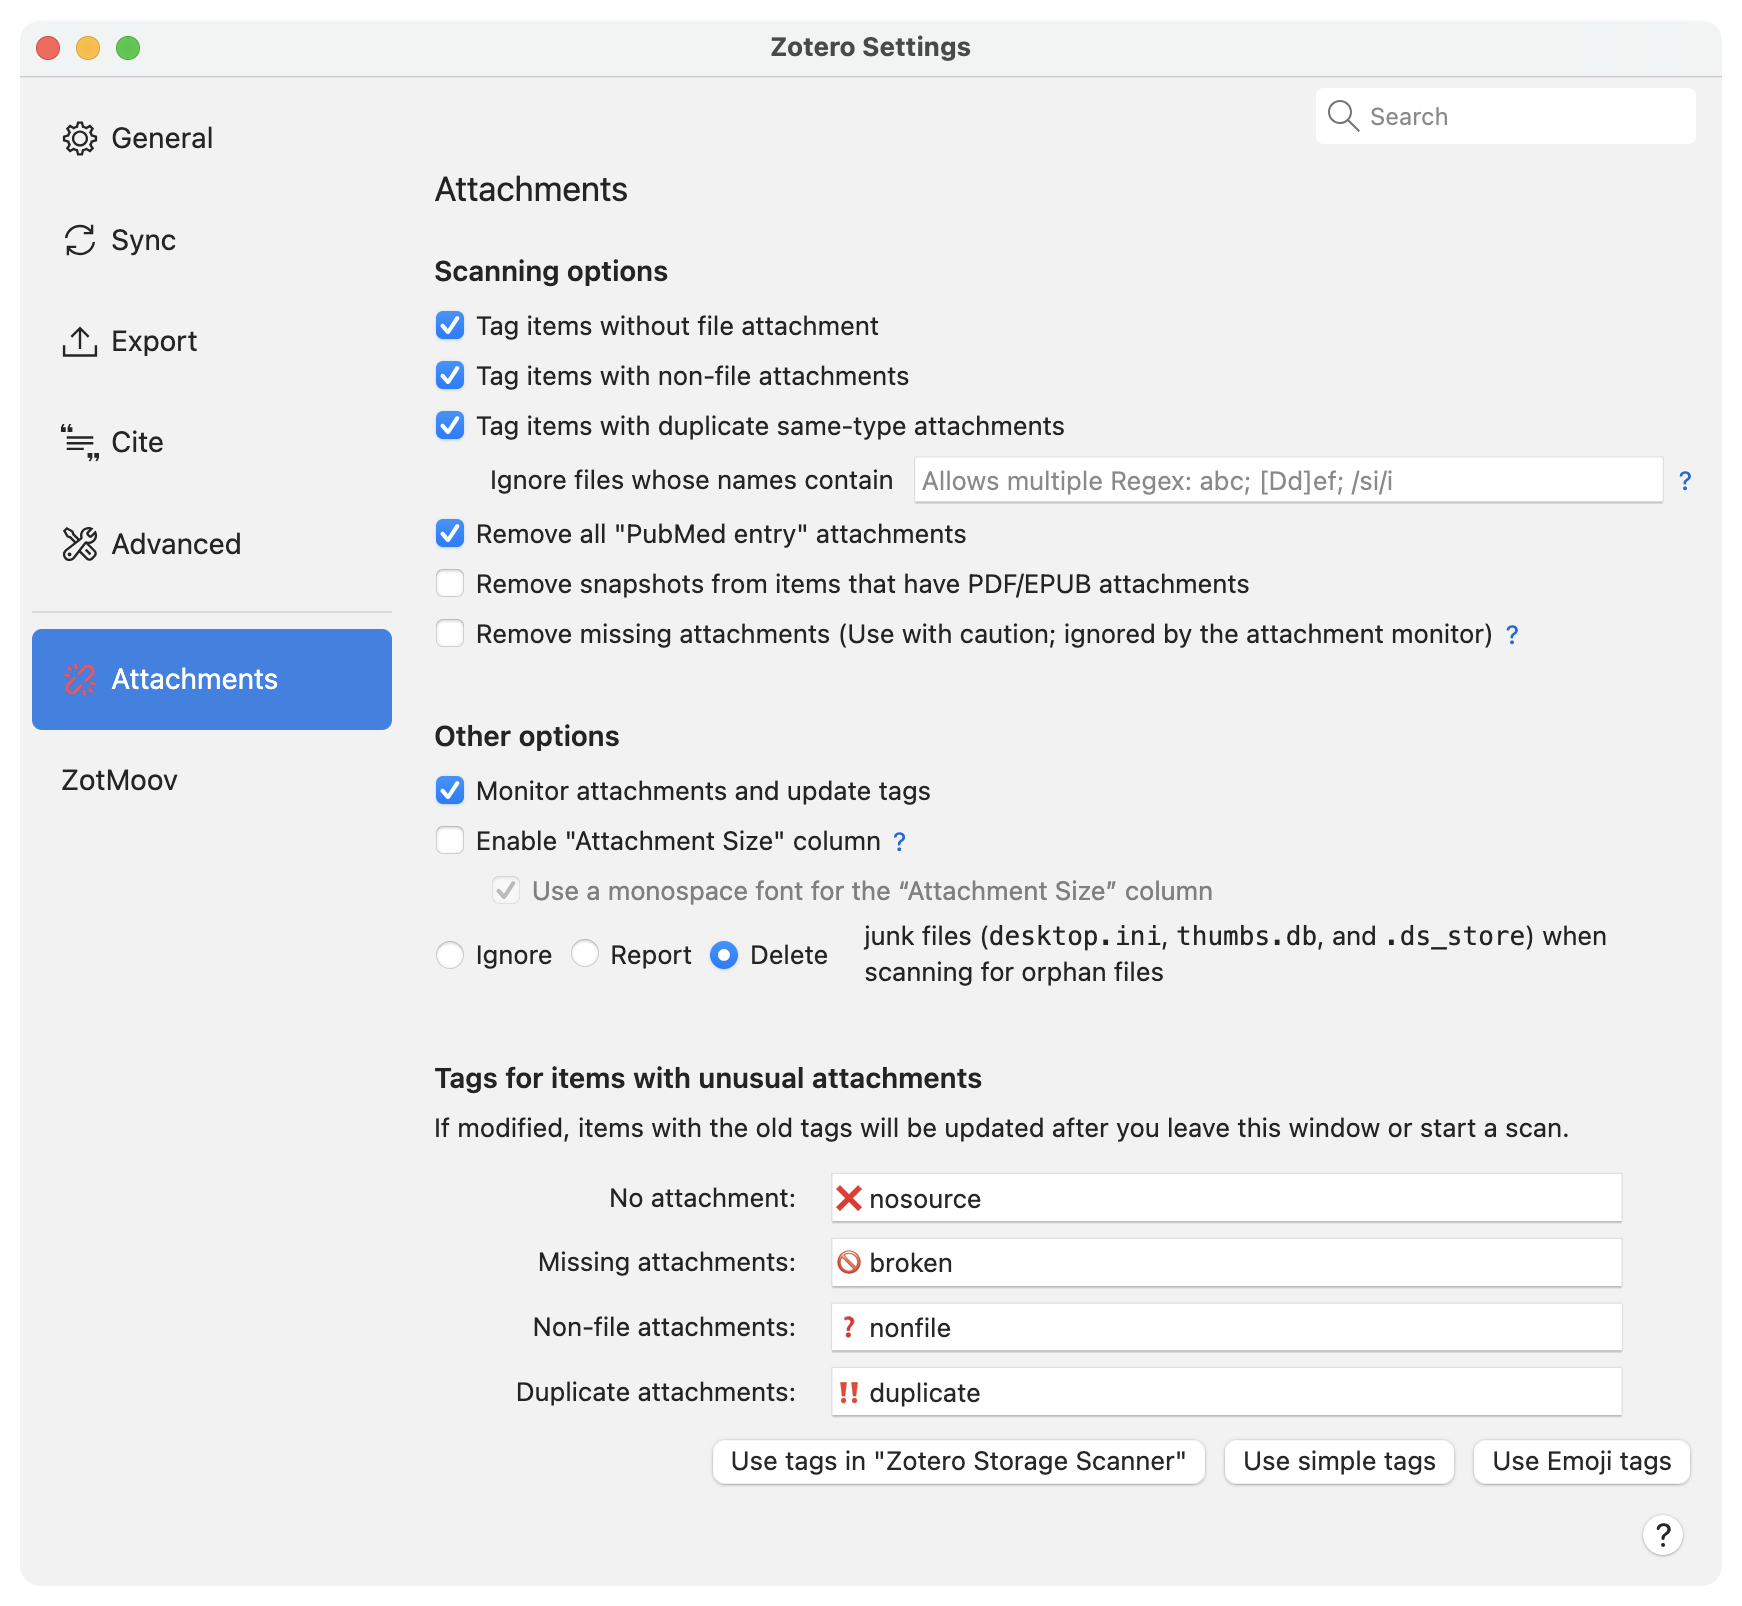
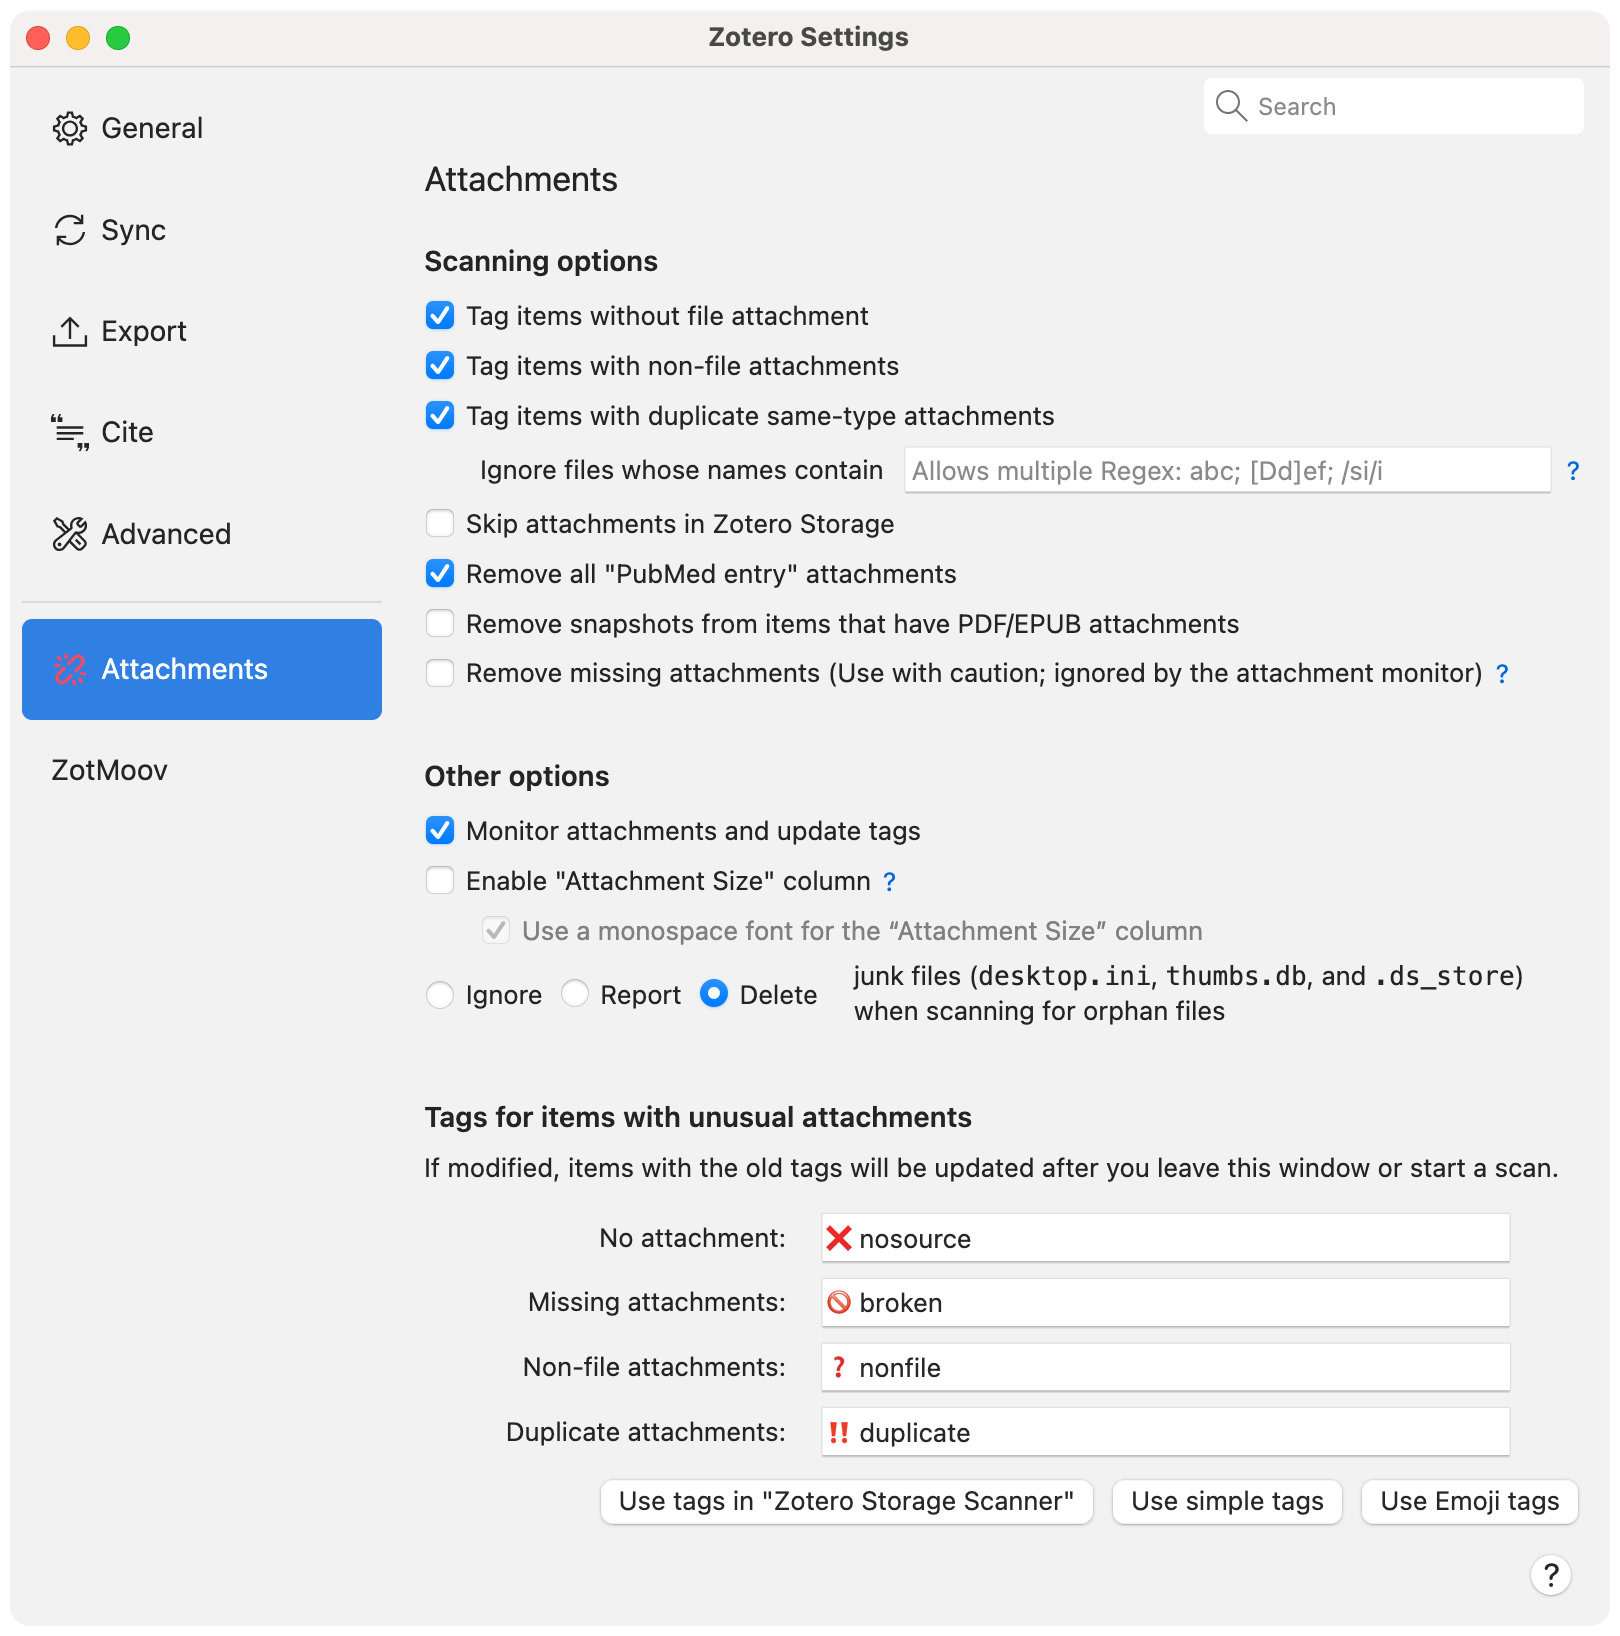
v 0.5.1

diff --git a/attachmentscanner.js b/attachmentscanner.js
@@ -46,6 +46,7 @@ AttachmentScanner.readPref = function() {
     this.scanNosource       = this.getPref("scan_nosource");
     this.scanNonfile        = this.getPref("scan_nonfiles");
     this.scanDuplicate      = this.getPref("scan_duplicates");
+    this.noImportedUrl      = this.getPref("skip_zotero_storage");
     this.removePubmedEntry  = this.getPref("remove_pubmed_entry");
     this.removeSnapshot     = this.getPref("remove_snapshot");
     this.removeBroken       = this.getPref("remove_broken");
@@ -90,6 +91,7 @@ AttachmentScanner.togglePreferenceItems = function() {
         doc.getElementById("attachmentscanner_cb_nfile").disabled = disabled;
         doc.getElementById("attachmentscanner_cb_dupl").disabled = disabled;
         doc.getElementById("attachmentscanner_cb_rmpm").disabled = disabled;
+        doc.getElementById("attachmentscanner_cb_nozs").disabled = disabled;
         doc.getElementById("attachmentscanner_cb_rmss").disabled = disabled;
         doc.getElementById("attachmentscanner_cb_rmbk").disabled = disabled;
         doc.getElementById("attachmentscanner_file_masks").disabled = disabled || !this.scanDuplicate;
@@ -408,10 +410,14 @@ AttachmentScanner.checkAttachements = async function(item, skipSomeActions) { //
 
             // On Linux, when the path (attachment.attachmentPath) is in DOS format, getFilePathAsync will fail
             try {
-                filename = await attachment.getFilePathAsync();
-                if (filename) {
+                if (this.noImportedUrl && attachment.attachmentLinkMode == Zotero.Attachments.LINK_MODE_IMPORTED_URL) {
                     if (attachment.isPDFAttachment() || attachment.isEPUBAttachment()) hasPDF = true;
-                } else hasBroken = true;
+                } else {
+                    filename = await attachment.getFilePathAsync();
+                    if (filename) {
+                       if (attachment.isPDFAttachment() || attachment.isEPUBAttachment()) hasPDF = true;
+                    } else hasBroken = true;
+                }
             } catch {
                 hasBroken = true;
             }

diff --git a/prefs.js b/prefs.js
@@ -1,6 +1,7 @@
 pref("extensions.attachmentscanner.scan_nosource", true);
 pref("extensions.attachmentscanner.scan_nonfiles", false);
 pref("extensions.attachmentscanner.scan_duplicates", true);
+pref("extensions.attachmentscanner.skip_zotero_storage", false);
 pref("extensions.attachmentscanner.remove_pubmed_entry", false);
 pref("extensions.attachmentscanner.remove_snapshot", false);
 pref("extensions.attachmentscanner.remove_broken", false);

diff --git a/bootstrap.js b/bootstrap.js
@@ -9,7 +9,7 @@
 
 const pluginName  = "Attachment Scanner";
 const pluginId    = "attachmentscanner@changlab.um.edu.mo";
-const version     = "0.5.0";
+const version     = "0.5.1";
 const mainJS      = "attachmentscanner.js";             // This is the actual plugin code
 const mainFTL     = "attachmentscanner.ftl";            // Localization file
 const prefXHTML   = "preferences.xhtml";                // Document for the pref window

diff --git a/others/preference_help.md b/others/preference_help.md
@@ -19,6 +19,9 @@ Attachments with file names matching these masks will be ignored during duplicat
 - `abc/i; def `: matches names with either “abc” (case-insensitive) or “def” (case-sensitive).
 - `/ abc; def `: matches names with either “ abc” or “def”, case-sensitive.
 
+#### Skip attachments in Zotero Storage
+Some attachments in Zotero Storage are downloaded on demand from online storage. Check this option to avoid flagging these attachments as broken.
+
 ### Remove all “PubMed entry” attachments
 When enabled, the plugin removes all non-file attachments whose names are “PubMed entry”. These attachments are added by Zotero to items from PubMed and some journals.
 

diff --git a/CHANGELOG.md b/CHANGELOG.md
@@ -1,6 +1,9 @@
 # Attachment Scanner Change log
 
-## 0.5.0, 2025-06-01
+## 0.5.1, 2026-07-29
+- Add an option to skip scanning attachments in Zotero Storage.
+
+## 0.5.0, 2026-06-01
 - Add an option to enable/disable the "Attachment Size" column
 - Add a hidden option to tag items based the link mode (stored vs linked) of their attachments
 - Changes: The "Attachement #" column now shows "" instead of "0"
